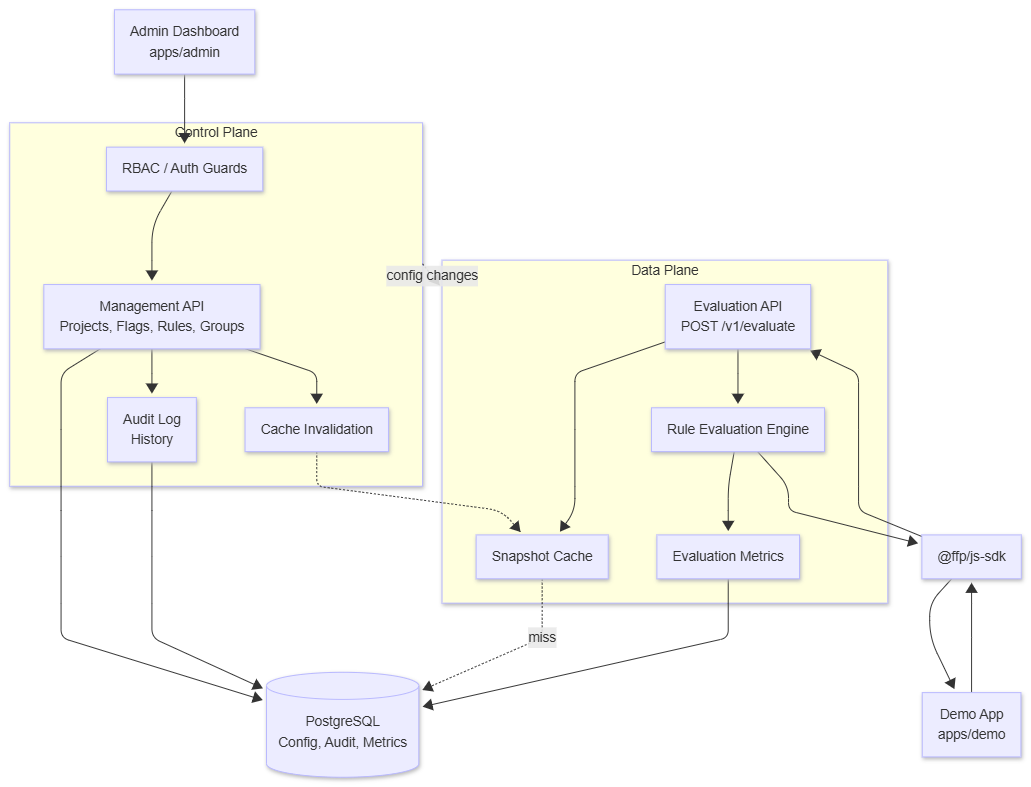
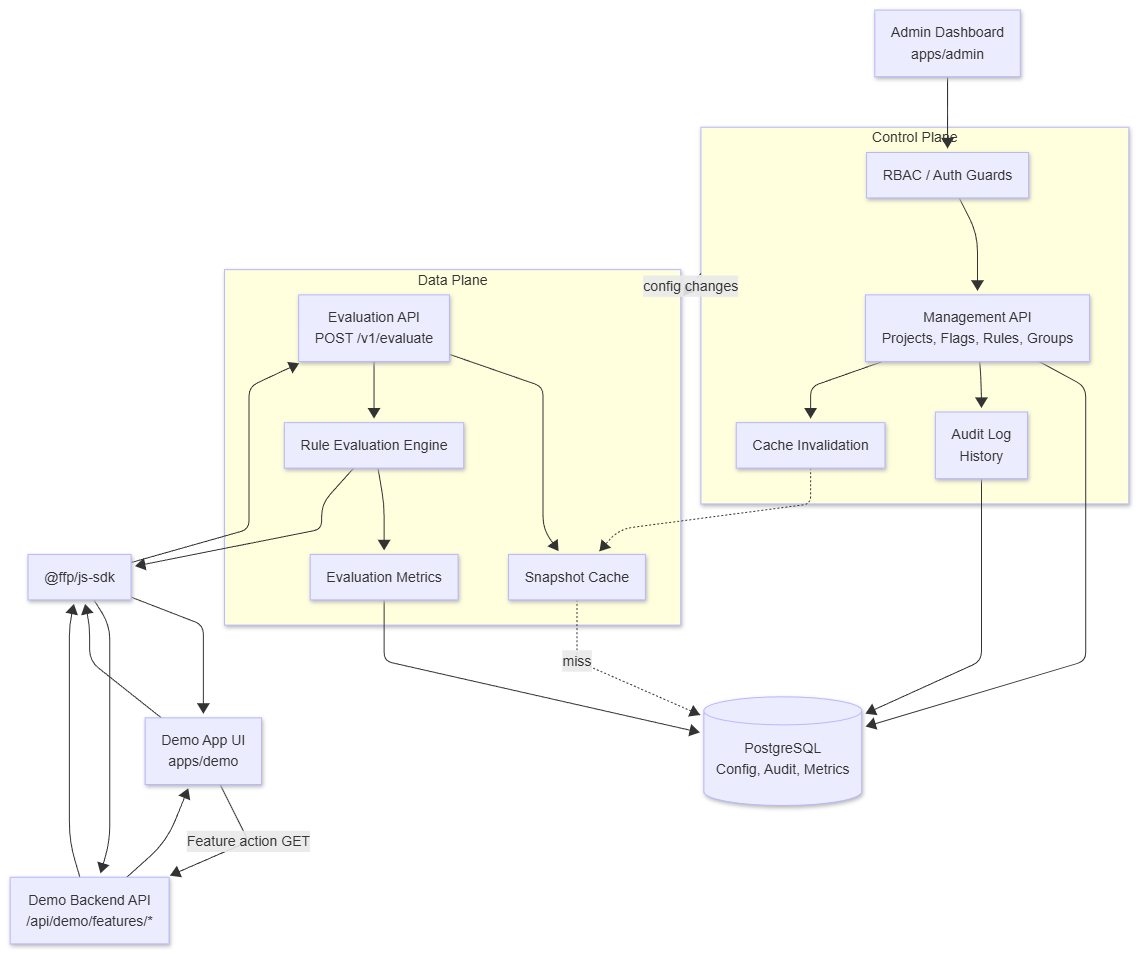
Enhance diagrams in Control Plane and Docker Compose documentation by updating UI labels and adding Demo Backend API connections for clarity.

diff --git a/Images/mermaid/Triển khai bằng Docker Compose.md b/Images/mermaid/Triển khai bằng Docker Compose.md
@@ -19,8 +19,8 @@ flowchart LR
         backend["backend<br/>NestJS API<br/>:3000"]
 
         admin["admin<br/>React + Nginx<br/>:80"]
-        demo["demo<br/>Production env<br/>:80"]
-        demoStg["demo-staging<br/>Staging env<br/>:80"]
+        demo["demo<br/>UI + Demo API<br/>:80"]
+        demoStg["demo-staging<br/>UI + Demo API<br/>:80"]
 
         redis[("redis<br/>optional cache")]
         studio["prisma-studio<br/>optional tools"]
@@ -50,6 +50,8 @@ flowchart LR
     hAdmin --> hApi
     hDemo --> hApi
     hDemoStg --> hApi
+    demo -->|"server-side evaluate"| backend
+    demoStg -->|"server-side evaluate"| backend
 
     classDef service fill:#E8F3FF,stroke:#2563EB,stroke-width:1px,color:#111827;
     classDef job fill:#FFF7ED,stroke:#EA580C,stroke-width:1px,color:#111827;

diff --git a/Images/mermaid/Control Plane - Data Plane.md b/Images/mermaid/Control Plane - Data Plane.md
@@ -1,7 +1,8 @@
 ```mermaid
 flowchart TD
     Admin["Admin Dashboard<br/>apps/admin"]
-    Demo["Demo App<br/>apps/demo"]
+    Demo["Demo App UI<br/>apps/demo"]
+    DemoAPI["Demo Backend API<br/>/api/demo/features/*"]
     SDK["@ffp/js-sdk"]
 
     subgraph CP["Control Plane"]
@@ -26,11 +27,14 @@ flowchart TD
     Mgmt --> Invalidate -.-> Cache
 
     Demo --> SDK --> EvalAPI
+    Demo -->|"Feature action GET"| DemoAPI
+    DemoAPI --> SDK
     EvalAPI --> Cache
     Cache -. "miss" .-> DB
     EvalAPI --> Engine
     Engine --> Metrics --> DB
     Engine --> SDK --> Demo
+    SDK --> DemoAPI --> Demo
 
     CP -. "config changes" .-> DP
 ```

diff --git a/Images/mermaid/Kiến trúc tổng thể của hệ thống.md b/Images/mermaid/Kiến trúc tổng thể của hệ thống.md
@@ -2,7 +2,8 @@
 flowchart TB
     subgraph Clients["Frontend / Client layer"]
         Admin["Admin Dashboard<br/>apps/admin"]
-        Demo["Demo Application<br/>apps/demo"]
+        Demo["Demo Application UI<br/>apps/demo"]
+        DemoAPI["Demo Backend API<br/>/api/demo/features/*"]
         SDK["@ffp/js-sdk"]
     end
 
@@ -36,6 +37,8 @@ flowchart TB
     CacheInvalidator --> Cache
 
     Demo --> SDK
+    Demo -->|"Feature action GET"| DemoAPI
+    DemoAPI --> SDK
     SDK -->|"Evaluation API"| API
 
     API --> EvalService
